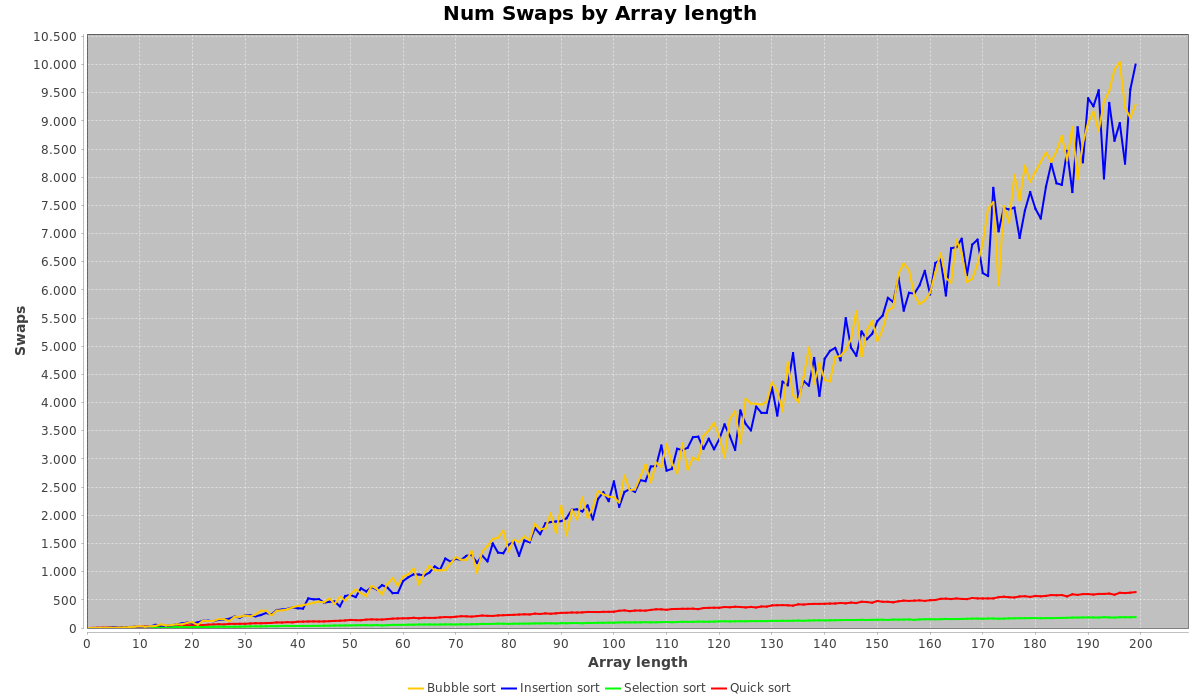
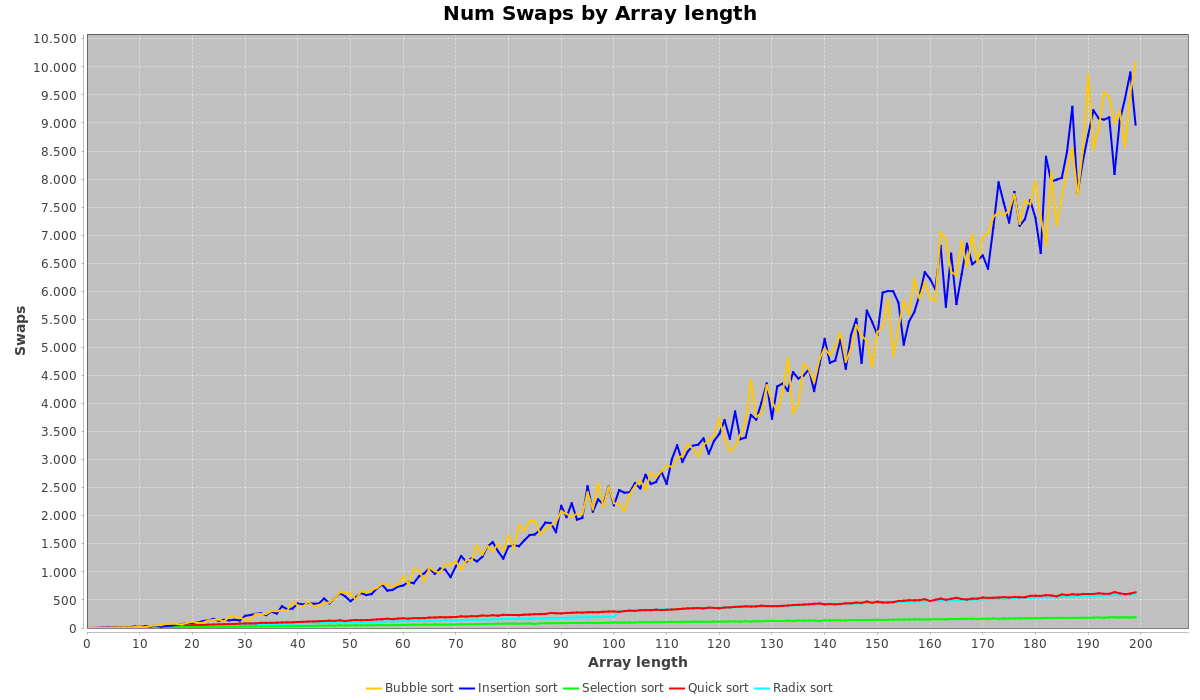
Radix added to charts

diff --git a/AlgorithmAnalysis/IntArraySorterCharts.java b/AlgorithmAnalysis/IntArraySorterCharts.java
@@ -12,11 +12,13 @@ public class IntArraySorterCharts {
     private double[][] insertionSortSwaps = new double[2][xAxisMaxValues];
     private double[][] selectionSortSwaps = new double[2][xAxisMaxValues];
     private double[][] quickSortSwaps = new double[2][xAxisMaxValues];
+    private double[][] radixSortSwaps = new double[2][xAxisMaxValues];
 
     private double[][] bubbleSortComps = new double[2][xAxisMaxValues];
     private double[][] insertionSortComps = new double[2][xAxisMaxValues];
     private double[][] selectionSortComps = new double[2][xAxisMaxValues];
     private double[][] quickSortComps = new double[2][xAxisMaxValues];
+    private double[][] radixSortComps = new double[2][xAxisMaxValues];
 
     /**
      * Runs the sort algorithms increasing the array shuffle grade from 0 to array.length (XAxisMaxValues).
@@ -31,6 +33,7 @@ public class IntArraySorterCharts {
             testInsertionSortAndStoreResults(shuffleGrade, array.length, xAxisValue);
             testSelectionSortAndStoreResults(shuffleGrade, array.length, xAxisValue);
             testQuickSortAndStoreResults(shuffleGrade, array.length, xAxisValue);
+            testRadixSortAndStoreResults(shuffleGrade, array.length, xAxisValue);
         }
         buildLinealCharts("Shuffle Grade");
     }
@@ -48,6 +51,7 @@ public class IntArraySorterCharts {
             testInsertionSortAndStoreResults(shuffleGrade, arrayLength, xAxisValue);
             testSelectionSortAndStoreResults(shuffleGrade, arrayLength, xAxisValue);
             testQuickSortAndStoreResults(shuffleGrade, arrayLength, xAxisValue);
+            testRadixSortAndStoreResults(shuffleGrade, arrayLength, xAxisValue);
         }
         buildLinealCharts("Array length");
     }
@@ -79,11 +83,19 @@ public class IntArraySorterCharts {
         addValues(quickSortComps, XAxisData, sorter.getNumComparisons());
     }
 
+    private void testRadixSortAndStoreResults(int shuffleGrade, int arrayLength, int XAxisData) {
+        buildSorterAndShuffle(shuffleGrade, arrayLength);
+        sorter.radixSort();
+        addValues(radixSortSwaps, XAxisData, sorter.getNumSwaps());
+        addValues(radixSortComps, XAxisData, sorter.getNumComparisons());
+        System.out.println(array.length + " " + sorter.getNumComparisons() + " " + sorter.getNumSwaps());
+    }
+
     private void buildLinealCharts(String xAxisName){
         LinearChartBuilder chart = new LinearChartBuilder("Num Swaps by " + xAxisName, "Swaps", xAxisName);
-        chart.buildLinearChart(bubbleSortSwaps, insertionSortSwaps, selectionSortSwaps, quickSortSwaps);
+        chart.buildLinearChart(bubbleSortSwaps, insertionSortSwaps, selectionSortSwaps, quickSortSwaps, radixSortSwaps);
         chart = new LinearChartBuilder("Num Comparisons by " + xAxisName, "Comparisons", xAxisName);
-        chart.buildLinearChart(bubbleSortComps, insertionSortComps, selectionSortComps, quickSortComps);
+        chart.buildLinearChart(bubbleSortComps, insertionSortComps, selectionSortComps, quickSortComps, radixSortComps);
     }
 
     private void addValues(double[][] array, int x, int y) {

diff --git a/AlgorithmAnalysis/LinearChartBuilder.java b/AlgorithmAnalysis/LinearChartBuilder.java
@@ -33,12 +33,17 @@ public class LinearChartBuilder {
      * @param selectionSortData Contains the data to plot the selection sort results.
      * @param qsData Contains the data to plot the quick sort results.
      */
-    public void buildLinearChart(double[][] bubbleSortData, double[][] insertionSortData, double[][] selectionSortData, double[][] qsData) {
+    public void buildLinearChart(double[][] bubbleSortData,
+                                 double[][] insertionSortData,
+                                 double[][] selectionSortData,
+                                 double[][] qsData,
+                                 double[][] rsData) {
         DefaultXYDataset dataset = new DefaultXYDataset();
         dataset.addSeries("Bubble sort", bubbleSortData);
         dataset.addSeries("Insertion sort", insertionSortData);
         dataset.addSeries("Selection sort", selectionSortData);
         dataset.addSeries("Quick sort", qsData);
+        dataset.addSeries("Radix sort", rsData);
 
         XYLineAndShapeRenderer renderer = new XYLineAndShapeRenderer(true,  false);
         setRenderSettings(renderer);
@@ -67,6 +72,7 @@ public class LinearChartBuilder {
         renderer.setSeriesPaint(1, Color.BLUE);
         renderer.setSeriesPaint(2, Color.GREEN);
         renderer.setSeriesPaint(3, Color.RED);
+        renderer.setSeriesPaint(4, Color.CYAN);
     }
 
     private void setSeriesStroke(XYLineAndShapeRenderer renderer){
@@ -74,5 +80,6 @@ public class LinearChartBuilder {
         renderer.setSeriesStroke(1, new BasicStroke(2));
         renderer.setSeriesStroke(2, new BasicStroke(2));
         renderer.setSeriesStroke(3, new BasicStroke(2));
+        renderer.setSeriesStroke(4, new BasicStroke(2));
     }
 }

diff --git a/src/IntArraySorter.java b/src/IntArraySorter.java
@@ -149,20 +149,23 @@ public class IntArraySorter {
     public void radixSort() {
         int n = 1;
         while (!maxDigitLengthReached) {
-            int[] results = new int[array.length];
-            countSort(results, n);
-            ArrayBuilder.arrayCopy(array, results);
+            countSort(n);
             n *= 10;
         }
     }
 
-    private void countSort(int[] results, int n) {
+    private void countSort(int n) {
         maxDigitLengthReached = true;
+        int[] results = new int[array.length];
         int[] buckets = new int[10];
         count(buckets, n);
         if (!maxDigitLengthReached) {
             sumCount(buckets);
             sort(buckets, results, n);
+            for (int i = 0; i < array.length; ++i) {
+                array[i] = results[i];
+                numSwaps += 1;
+            }
         }
     }
 
@@ -172,6 +175,7 @@ public class IntArraySorter {
             int digit = value % 10;
             if (value > 0) {
                 maxDigitLengthReached = false;
+                numComparisons += 1;
             }
             buckets[digit] += 1;
         }

diff --git a/src/ArrayBuilder.java b/src/ArrayBuilder.java
@@ -27,15 +27,4 @@ public class ArrayBuilder {
         }
         return array;
     }
-
-    /**
-     * Gets 2 arrays of the same length and copy one into the other.
-     * @param destination the array to store the source elements.
-     * @param original the array we want to copy.
-     */
-    public static void arrayCopy(int[] destination, int[] original){
-        for(int i = 0; i < original.length; ++i){
-            destination[i] = original[i];
-        }
-    }
 }
